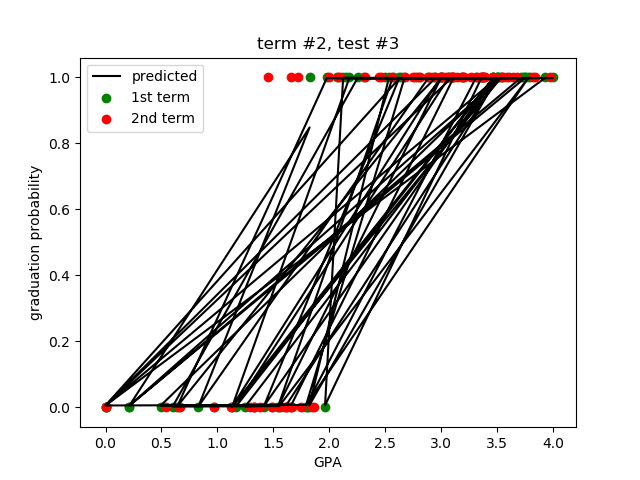
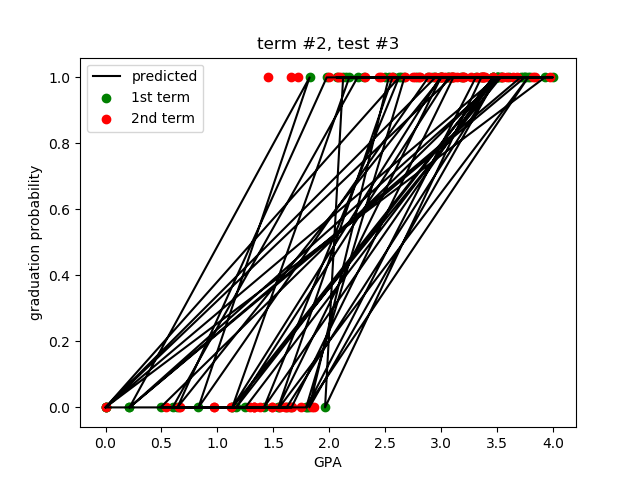
Added AUC score to LinearRegression and GradientBoostRegression.

Changed region(s): [[0.1562, 0.1562, 0.875, 0.875], [0.7188, 0.3125, 0.75, 0.3438], [0.5, 0.375, 0.5312, 0.4062]]

diff --git a/nthSemesterGraduationPrediction/GradientBoostedTreesModel.py b/nthSemesterGraduationPrediction/GradientBoostedTreesModel.py
@@ -9,6 +9,8 @@ from sklearn.ensemble import GradientBoostingRegressor
 from matplotlib import pyplot as plt
 import pandas as pd
 import numpy as np
+from sklearn.metrics import roc_curve
+
 import StratifyAndGenerateDatasets as sd
 
 RESULTS_FOLDER = 'GradientBoostedTreesResults\\'
@@ -44,6 +46,7 @@ def gbt_predict():
 
     rr = []  # hold the R^2 and RMSE results for each term
     rmse = []  # |
+    auc = []  # |
 
     y_tests = [[], [], []]  # hold the tests and predictions so we can graph them
     y_preds = [[], [], []]
@@ -58,6 +61,8 @@ def gbt_predict():
         for i in range(0, sd.NUMBER_FOLDS):
             model.fit(x_train_array[j][i], y_train_array[j][i])
             y_pred = model.predict(x_test_array[j][i])
+            for idx, a in enumerate(y_pred):
+                y_pred[idx] = sd.round_school(a)
             y_tests[j] += list(y_test_array[j][i])
             y_preds[j] += list(y_pred)
             plt.scatter((x_test_array[j][i])[:, 0], y_test_array[j][i], color='g', label='1st term')
@@ -68,7 +73,7 @@ def gbt_predict():
             if j > 1:
                 plt.scatter((x_test_array[j][i])[:, 4], y_test_array[j][i], color='b', label='3rd term')
 
-            plt.plot((x_test_array[j][i])[:, 0], model.predict(x_test_array[j][i]), color='k', label='predicted')
+            plt.plot((x_test_array[j][i])[:, 0], y_pred, color='k', label='predicted')
             # plt.scatter((x_test_array[j][i])[:, 0], model.predict(x_test_array[j][i]), color='r', label='predicted')
             plt.title('term #' + str(j + 1) + ', test #' + str(i + 1))
             plt.xlabel('GPA')
@@ -78,12 +83,15 @@ def gbt_predict():
             plt.close()
 
         rr.append(metrics.r2_score(y_tests[j], y_preds[j]))
+        auc.append(metrics.roc_auc_score(y_tests[j], y_preds[j]))
         rmse.append(np.math.sqrt(metrics.mean_squared_error(y_tests[j], y_preds[j])))
 
     #  save all R^2 and RMSE results in one file with appropriate prefixes
     with open(RESULTS_FOLDER + RESULTS_TEXTFILE, "w") as text_file:
         for i in range(0, sd.NUM_TERMS):
-            text_file.write('term_' + str(i + 1) + ': R^2 = ' + str(rr[i]) + ', RMSE = ' + str(rmse[i]) + '\n')
+            text_file.write(
+                'term_' + str(i + 1) + ': R^2 = ' + str(rr[i]) + ', RMSE = ' + str(rmse[i]) + ', AUC = ' + str(
+                    auc[i]) + '\n')
 
 
 if __name__ == "__main__":

diff --git a/nthSemesterGraduationPrediction/LinearRegressionModel.py b/nthSemesterGraduationPrediction/LinearRegressionModel.py
@@ -44,6 +44,7 @@ def lr_predict():
 
     rr = []  # hold the R^2 and RMSE results for each term
     rmse = []  # |
+    auc = []  # |
 
     y_tests = [[], [], []]  # hold the tests and predictions so we can graph them
     y_preds = [[], [], []]
@@ -55,6 +56,8 @@ def lr_predict():
         for i in range(0, sd.NUMBER_FOLDS):
             model.fit(x_train_array[j][i], y_train_array[j][i])
             y_pred = model.predict(x_test_array[j][i])
+            for idx, a in enumerate(y_pred):
+                y_pred[idx] = sd.round_school(a)
             y_tests[j] += list(y_test_array[j][i])
             y_preds[j] += list(y_pred)
             plt.scatter((x_test_array[j][i])[:, 0], y_test_array[j][i], color='g', label='1st term')
@@ -65,7 +68,7 @@ def lr_predict():
             if j > 1:
                 plt.scatter((x_test_array[j][i])[:, 4], y_test_array[j][i], color='b', label='3rd term')
 
-            plt.plot((x_test_array[j][i])[:, 0], model.predict(x_test_array[j][i]), color='k', label='predicted')
+            plt.plot((x_test_array[j][i])[:, 0], y_pred, color='k', label='predicted')
             plt.title('term #' + str(j + 1) + ', test #' + str(i + 1))
             plt.xlabel('GPA')
             plt.ylabel('graduation probability')
@@ -74,12 +77,15 @@ def lr_predict():
             plt.close()
 
         rr.append(metrics.r2_score(y_tests[j], y_preds[j]))
+        auc.append(metrics.roc_auc_score(y_tests[j], y_preds[j]))
         rmse.append(np.math.sqrt(metrics.mean_squared_error(y_tests[j], y_preds[j])))
 
     #  save all R^2 and RMSE results in one file with appropriate prefixes
     with open(RESULTS_FOLDER + RESULTS_TEXTFILE, "w") as text_file:
         for i in range(0, sd.NUM_TERMS):
-            text_file.write('term_' + str(i + 1) + ': R^2 = ' + str(rr[i]) + ', RMSE = ' + str(rmse[i]) + '\n')
+            text_file.write(
+                'term_' + str(i + 1) + ': R^2 = ' + str(rr[i]) + ', RMSE = ' + str(rmse[i]) + ', AUC = ' + str(
+                    auc[i]) + '\n')
 
 
 if __name__ == "__main__":

diff --git a/nthSemesterGraduationPrediction/StratifyAndGenerateDatasets.py b/nthSemesterGraduationPrediction/StratifyAndGenerateDatasets.py
@@ -56,5 +56,14 @@ def stratify_fold():
             loop_count += 1
 
 
+# https://stackoverflow.com/a/43886290
+def round_school(x):
+    if x < 0:
+        return 0
+    else:
+        i, f = divmod(x, 1)
+        return int(i + ((f >= 0.5) if (x > 0) else (f > 0.5)))
+
+
 if __name__ == "__main__":
     stratify_fold()
